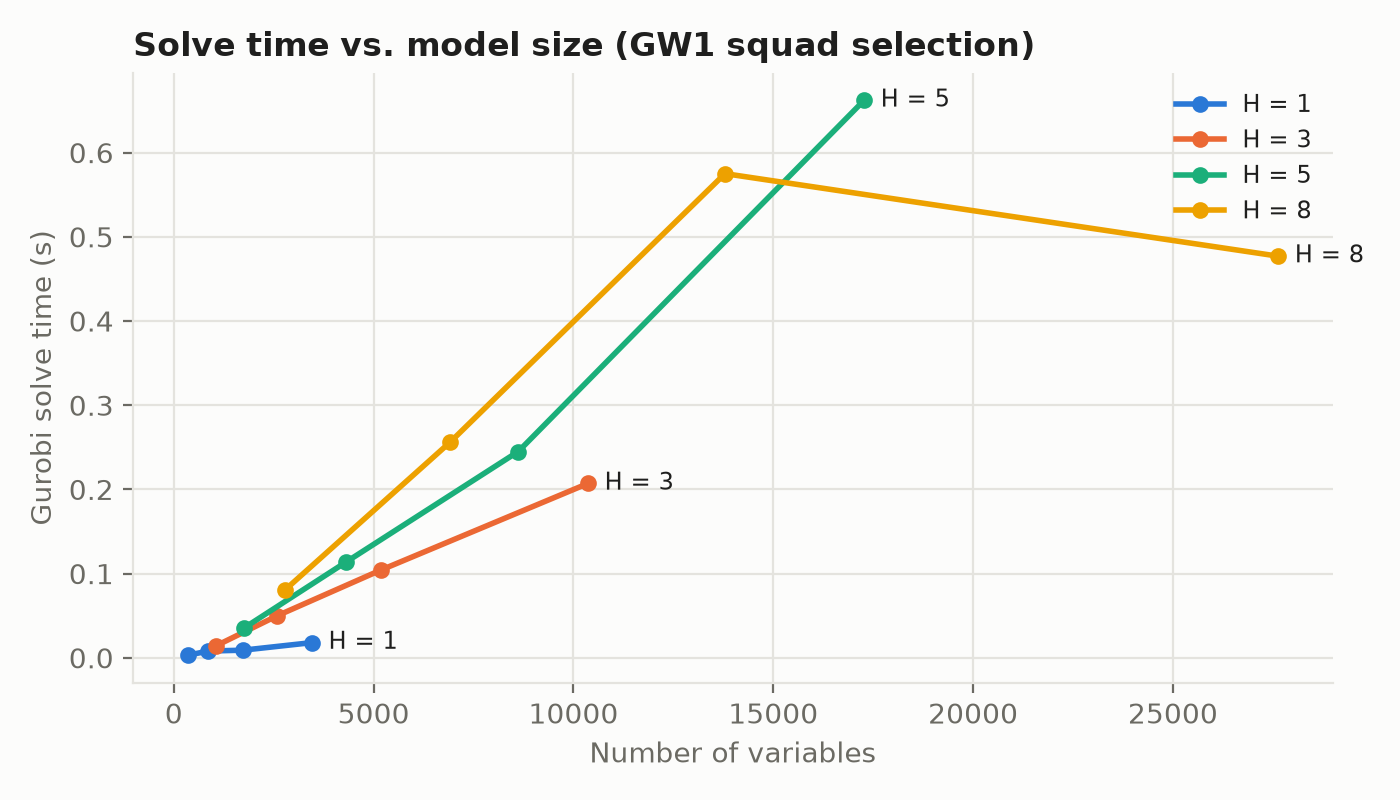
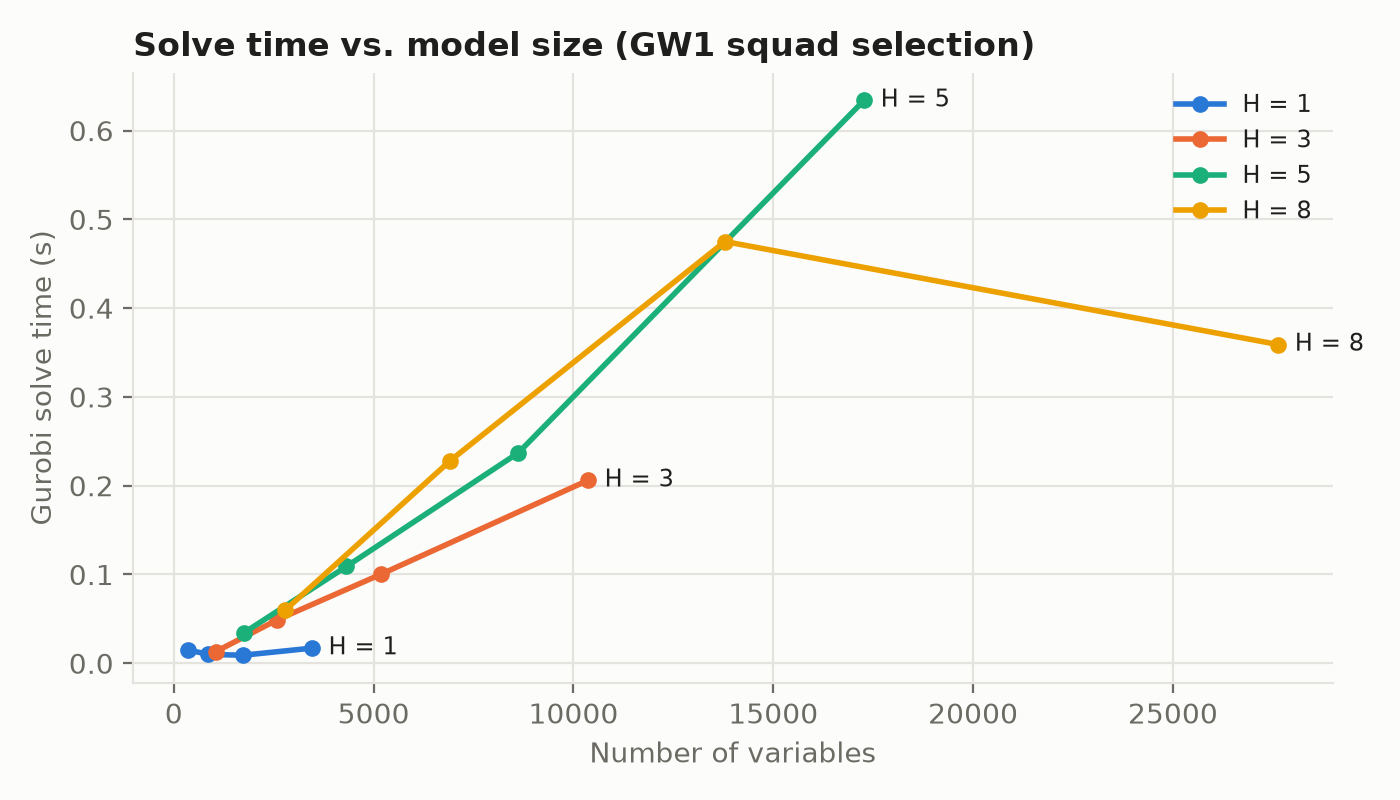
Record Gurobi status in timing analysis, fix fig6 labels

diff --git a/analysis.py b/analysis.py
@@ -10,7 +10,7 @@ Step 6 of the project: post-optimality analysis, figures and tables for the repo
                                      -> lp_gap_gw1.csv, lp_duals_gw1.csv, player_sensitivity_gw1.csv
   E. model size vs solve time        -> model_size_time.csv, fig4_solve_time.png
   F. forecast vs actual (main model) -> fig5_expected_vs_actual.png
-  G. optimization point over H      -> fig6_optimal_horizon.png  (uses part B's table)
+  G. season points over H (hit -4) -> fig6_optimal_horizon.png  (uses part B's table)
 
 Run:  python analysis.py          (everything, ~10 min)
       python analysis.py A D      (only some parts)
@@ -212,8 +212,10 @@ def part_e(df, xp, gws=(1, 20), horizons=(1, 3, 5, 8), shares=(0.1, 0.25, 0.5, 1
                 n_keep = {k: max(M.QUOTA[k] + 2, int(round(v * sh))) for k, v in counts.items()}
                 P, G, xpd, price, pos, club, _ = M.build_inputs(df, xp, t, H, n_keep=n_keep)
                 r = M.solve(t, P, G, xpd, price, price, pos, club, [], 100.0, 0)
+                status = {2: "optimal", 9: "time_limit"}.get(r["model"].Status, str(r["model"].Status))
                 rows.append({"GW": t, "horizon": H, "candidates": len(P), "variables": r["n_vars"],
-                             "constraints": r["n_constrs"], "solve_time_s": round(r["runtime"], 3)})
+                             "constraints": r["n_constrs"], "solve_time_s": round(r["runtime"], 3),
+                             "status": status, "mip_gap_percent": round(100 * r["model"].MIPGap, 3)})
                 r["model"].dispose()
     tab = pd.DataFrame(rows)
     tab.to_csv(RES / "model_size_time.csv", index=False)
@@ -261,18 +263,16 @@ def part_g(hit_cost=4):
     ax.plot(s.horizon, s.total_points, color=SERIES[0], marker="o", markersize=7)
     ax.scatter([best.horizon], [best.total_points], s=160, color=SERIES[0],
                edgecolor=SURFACE, linewidth=2, zorder=3)
-    ax.annotate(f"Optimization point\nH = {int(best.horizon)}  ({int(best.total_points):,} pts)",
-                (best.horizon, best.total_points), xytext=(0, 14), textcoords="offset points",
-                fontsize=9.5, fontweight="bold", color=INK, va="bottom", ha="center")
-    first, last = s.iloc[0], s.iloc[-1]
-    for row in (first, last):
-        ax.annotate(f"{int(row.total_points):,}", (row.horizon, row.total_points), xytext=(0, -16),
-                    textcoords="offset points", ha="center", fontsize=8.5, color=MUTED)
-    ax.text(0.02, 0.97, "planning further ahead helps", transform=ax.transAxes,
-            fontsize=8.5, color=MUTED, va="top")
-    ax.text(0.98, 0.97, "until forecasts get too noisy", transform=ax.transAxes,
-            fontsize=8.5, color=MUTED, va="top", ha="right")
-    ax.set_title("Season points vs. look-ahead horizon")
+    at_edge = best.horizon == s.horizon.max()
+    label = "Best of tested H" + (" (largest H tested)" if at_edge else "")
+    ax.annotate(f"{label}\nH = {int(best.horizon)}  ({int(best.total_points):,} pts)",
+                (best.horizon, best.total_points), xytext=(6 if at_edge else 0, 14), textcoords="offset points",
+                fontsize=9.5, fontweight="bold", color=INK, va="bottom", ha="right" if at_edge else "center")
+    for row in s.itertuples():
+        if row.horizon != best.horizon:
+            ax.annotate(f"{int(row.total_points):,}", (row.horizon, row.total_points), xytext=(0, -16),
+                        textcoords="offset points", ha="center", fontsize=8.5, color=MUTED)
+    ax.set_title(f"Season points vs. look-ahead horizon (hit cost -{hit_cost})")
     ax.set_xlabel("Look-ahead H (gameweeks planned at each deadline)")
     ax.set_ylabel("Season points")
     ax.set_xticks(s.horizon)
